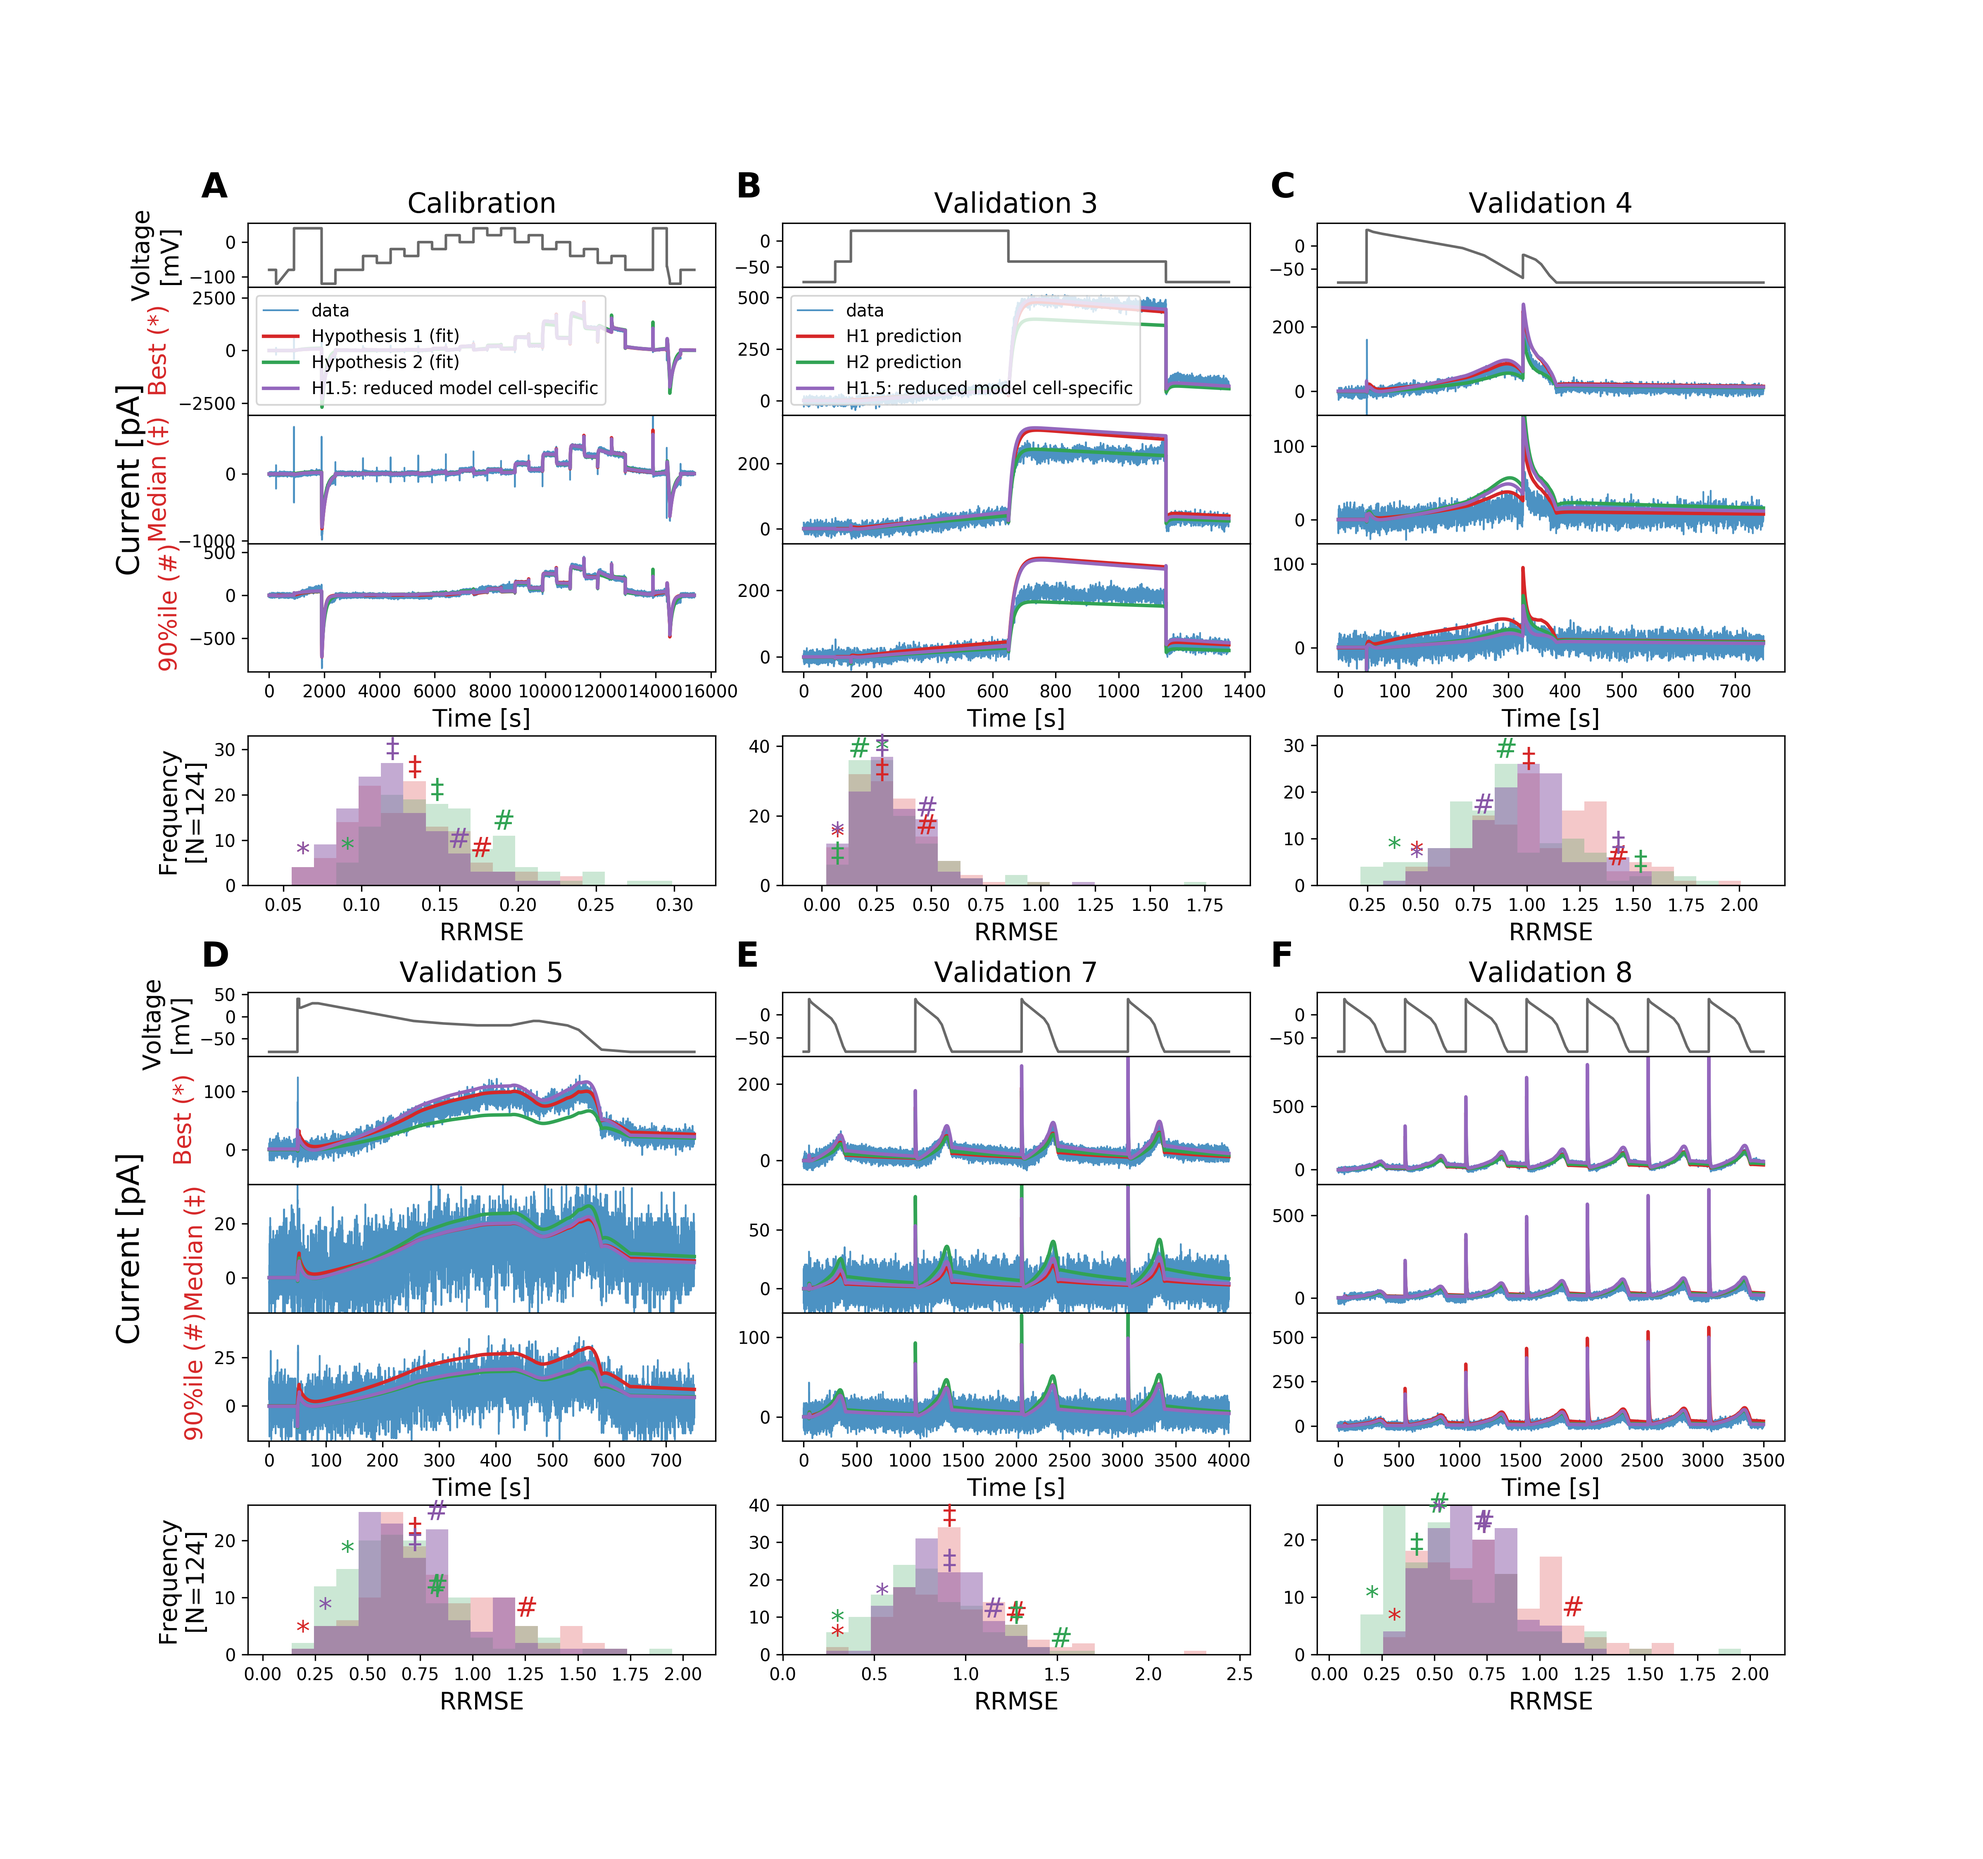
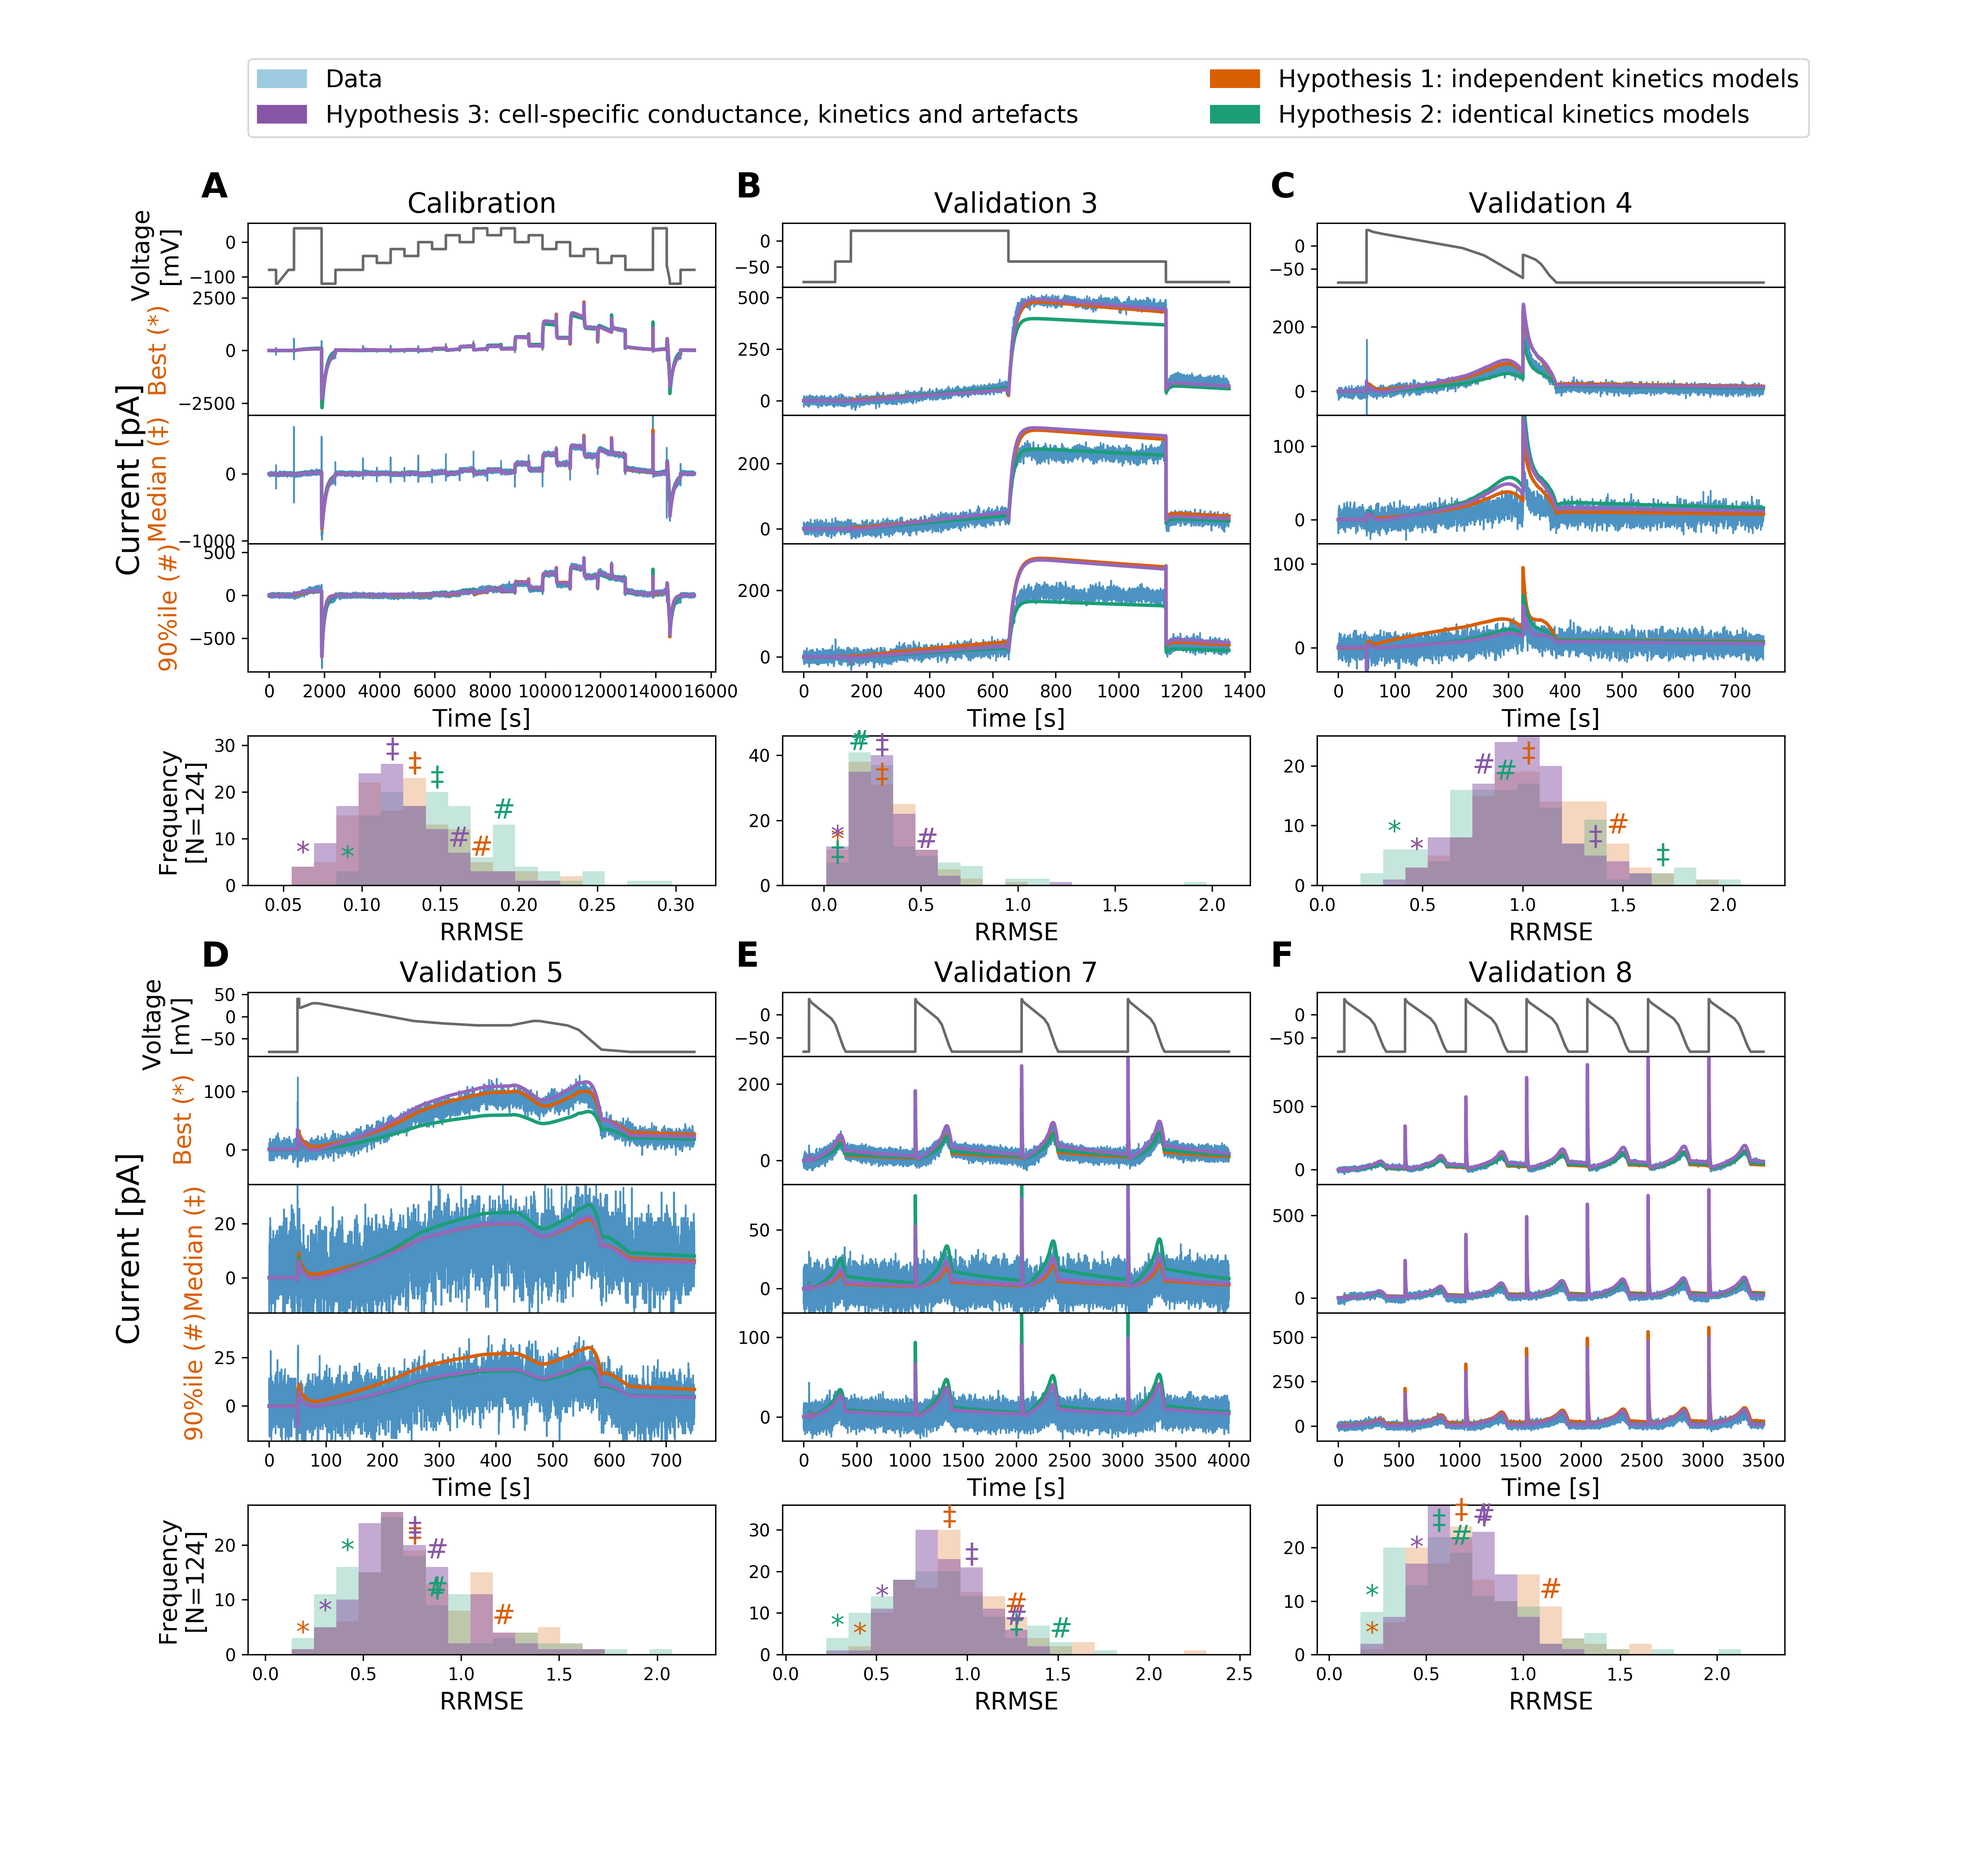
Update H3 plot legends and colours

diff --git a/herg-real-data/plot-rmsd-hist-independent-v-scheme3-v-simlinleak-part1.py b/herg-real-data/plot-rmsd-hist-independent-v-scheme3-v-simlinleak-part1.py
@@ -118,7 +118,7 @@ file_list = [
 temperatures = np.array([25.0])
 temperatures += 273.15  # in K
 fit_seed = '542811797'
-fit_seed2 = '209652396'
+fit_seed2 = '717354021'
 
 file_name = file_list[0]
 temperature = temperatures[0]
@@ -226,14 +226,14 @@ for i in range(int(len(protocol_list) / 2)):
 
 # Set labels
 axes[0, 0].set_ylabel('Voltage\n[mV]', fontsize=14)
-axes[1, 0].set_ylabel(r'Best ($*$)', fontsize=14, color='#d62728')
-axes[2, 0].set_ylabel(u'Median (\u2021)', fontsize=14, color='#d62728')
-axes[3, 0].set_ylabel(r'90%ile (#)', fontsize=14, color='#d62728')
+axes[1, 0].set_ylabel(r'Best ($*$)', fontsize=14, color='#d95f02')
+axes[2, 0].set_ylabel(u'Median (\u2021)', fontsize=14, color='#d95f02')
+axes[3, 0].set_ylabel(r'90%ile (#)', fontsize=14, color='#d95f02')
 axes[4, 0].set_ylabel('Frequency\n[N=%s]' % len(rmsd_cells), fontsize=14)
 axes[5, 0].set_ylabel('Voltage\n[mV]', fontsize=14)
-axes[6, 0].set_ylabel(r'Best ($*$)', fontsize=14, color='#d62728')
-axes[7, 0].set_ylabel(u'Median (\u2021)', fontsize=14, color='#d62728')
-axes[8, 0].set_ylabel(r'90%ile (#)', fontsize=14, color='#d62728')
+axes[6, 0].set_ylabel(r'Best ($*$)', fontsize=14, color='#d95f02')
+axes[7, 0].set_ylabel(u'Median (\u2021)', fontsize=14, color='#d95f02')
+axes[8, 0].set_ylabel(r'90%ile (#)', fontsize=14, color='#d95f02')
 axes[9, 0].set_ylabel('Frequency\n[N=%s]' % len(rmsd_cells), fontsize=14)
 
 axes[2, 0].text(-0.25, 0.5, 'Current [pA]', rotation=90, fontsize=18,
@@ -516,18 +516,18 @@ for i_prt, prt in enumerate(protocol_list):
             # simulation
             if prt == 'staircaseramp':
                 axes[ai + i_cell + 1, aj].plot(times, simulation, lw=2,
-                        c='#d62728', label='Hypothesis 1 (fit)')
+                        c='#d95f02', label='Hypothesis 1')
                 axes[ai + i_cell + 1, aj].plot(times, simulationfixkinetics_s3, lw=2,
-                        c='#31a354', label='Hypothesis 2 (fit)')
+                        c='#1b9e77', label='Hypothesis 2')
                 axes[ai + i_cell + 1, aj].plot(times, simulationfixkinetics, lw=2,
-                        c='#9467bd', label='H1.5: reduced model cell-specific')
+                        c='#9467bd', label='Hypothesis 3')
             else:
                 axes[ai + i_cell + 1, aj].plot(times, simulation, lw=2,
-                        c='#d62728', label='H1 prediction')
+                        c='#d95f02', label='H1 prediction')
                 axes[ai + i_cell + 1, aj].plot(times, simulationfixkinetics_s3, lw=2,
-                        c='#31a354', label='H2 prediction')
+                        c='#1b9e77', label='H2 prediction')
                 axes[ai + i_cell + 1, aj].plot(times, simulationfixkinetics, lw=2,
-                        c='#9467bd', label='H1.5: reduced model cell-specific')
+                        c='#9467bd', label='H3 prediction')
         else:
             iv_v = protocol_iv_v[prt]() * 1000  # V -> mV
             # recording
@@ -539,12 +539,12 @@ for i_prt, prt in enumerate(protocol_list):
             iv_i = protocols.get_corrected_iv(simulation, times,
                                               *protocol_iv_args[prt]())
             axes[ai + i_cell + 1, aj].plot(iv_v, iv_i / np.max(iv_i), lw=2,
-                    alpha=1, c='#d62728', label='model prediction')
+                    alpha=1, c='#d95f02', label='model prediction')
             # simulationfixkinetics scheme3
             iv_i_fixkinetics_s3 = protocols.get_corrected_iv(simulationfixkinetics_s3, times,
                                               *protocol_iv_args[prt]())
             axes[ai + i_cell + 1, aj].plot(iv_v, iv_i_fixkinetics_s3 / np.max(iv_i_fixkinetics_s3), lw=2,
-                    alpha=1, c='#31a354', label='model (fix kinetics) prediction new')
+                    alpha=1, c='#1b9e77', label='model (fix kinetics) prediction new')
             # simulationfixkinetics
             iv_i_fixkinetics = protocols.get_corrected_iv(simulationfixkinetics, times,
                                               *protocol_iv_args[prt]())
@@ -565,8 +565,8 @@ for i_prt, prt in enumerate(protocol_list):
     rmse_max = max(np.max(rmsd), np.max(rmsd2))                                 
     rmse_range = rmse_max - rmse_min                                            
     bins = np.linspace(rmse_min - 0.1 * rmse_range, rmse_max + 0.1 * rmse_range, 20)
-    n, b, _ = axes[ai + 4, aj].hist(rmsd, bins=bins, color='#d62728', alpha=0.25)
-    n2, b2, _ = axes[ai + 4, aj].hist(rmsd2, bins=bins, color='#31a354', alpha=0.25)
+    n, b, _ = axes[ai + 4, aj].hist(rmsd, bins=bins, color='#d95f02', alpha=0.25)
+    n2, b2, _ = axes[ai + 4, aj].hist(rmsd2, bins=bins, color='#1b9e77', alpha=0.25)
     n3, b3, _ = axes[ai + 4, aj].hist(rmsd3, bins=bins, color='#8856a7', alpha=0.5)
 
     # Add labels
@@ -576,7 +576,7 @@ for i_prt, prt in enumerate(protocol_list):
         if idx in rankedidx:
             print('Ref. marker might clash with other markers...')
         axes[ai + 4, aj].text((b[idx] + b[idx + 1]) / 2., n[idx] + 3,
-                rankedlabels[i], fontsize=16, color='#d62728',
+                rankedlabels[i], fontsize=16, color='#d95f02',
                 ha='center', va='center')
         if n[idx] == np.max(n):
             axes[ai + 4, aj].set_ylim([0, n[idx] + 6])
@@ -588,7 +588,7 @@ for i_prt, prt in enumerate(protocol_list):
         if idx in rankedidx2:
             print('Ref. marker might clash with other markers...')
         axes[ai + 4, aj].text((b2[idx] + b2[idx + 1]) / 2., n2[idx] + 3,
-                rankedlabels[i], fontsize=16, color='#31a354',
+                rankedlabels[i], fontsize=16, color='#1b9e77',
                 ha='center', va='center')
         if n2[idx] == np.max(n2):
             axes[ai + 4, aj].set_ylim([0, n2[idx] + 6])
@@ -610,8 +610,14 @@ for i_prt, prt in enumerate(protocol_list):
 #
 # Final adjustment and save
 #
-axes[1, 0].legend()
-axes[1, 1].legend()
+#axes[1, 0].legend()
+#axes[1, 1].legend()
+import matplotlib.patches as mpatches
+data_patch = mpatches.Patch(color='#9ecae1', label='Data')
+h1_patch = mpatches.Patch(color='#d95f02', label='Hypothesis 1: independent kinetics models')
+h2_patch = mpatches.Patch(color='#1b9e77', label='Hypothesis 2: identical kinetics models')
+h3_patch = mpatches.Patch(color='#8856a7', label='Hypothesis 3: cell-specific conductance, kinetics and artefacts')
+axes[0, 0].legend(handles=[data_patch, h3_patch, h1_patch, h2_patch], loc='upper left', bbox_to_anchor=(-.025, 3.75), fontsize=14, ncol=2, columnspacing=5.5)
 #grid.tight_layout(fig, pad=0.6, rect=(0.02, 0.0, 1, 0.99))
 #grid.update(wspace=0.2, hspace=0.0)
 plt.savefig('%s/rmsd-hist-independent-v-scheme3-v-simlinleak-part1.png' % (savedir), bbox_inch='tight',
